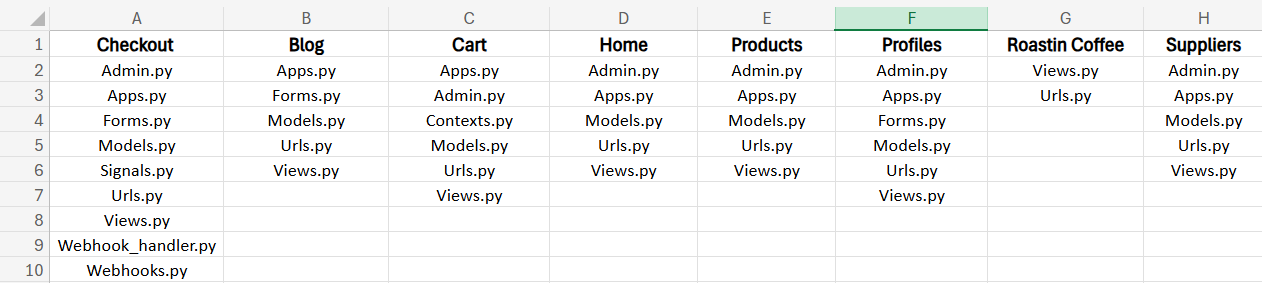
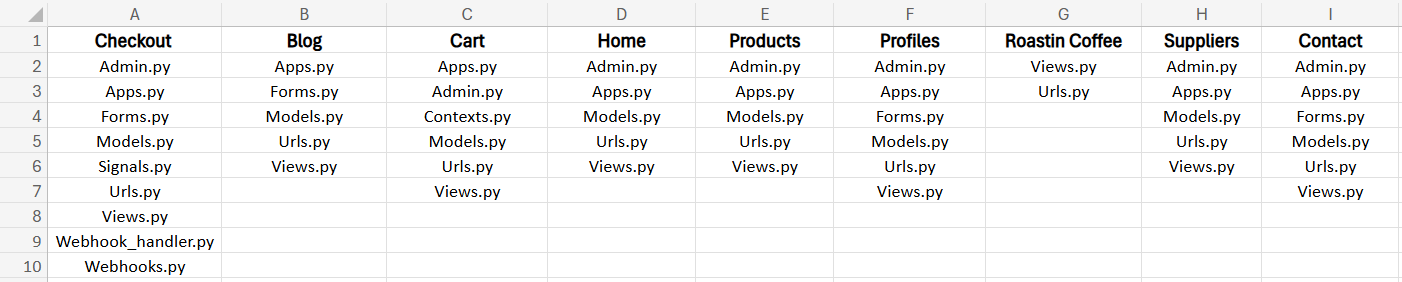
added contact form and mdoel info to readme

diff --git a/contact/templates/contact/contact.html b/contact/templates/contact/contact.html
@@ -5,7 +5,7 @@
 {% block content %}
 <div class="container">
     <form method="POST" enctype="multipart/form-data" class="p-2 form">
-        <h1 class="text-center">Contact</h1>
+        <h1 class="text-center">Contact Us</h1>
         {% csrf_token %}
         {{ form.media }} 
         {{ form|crispy }}

diff --git a/README.md b/README.md
@@ -34,6 +34,8 @@ Below is a set of wireframes designs to brainstorm ideas of what the website wou
 
 ![Suppliers](docs/images/wireframe_suppliers.png)
 
+![Contact Form](docs/images/Contact_form.PNG)
+
 ### User Stories
 
 As part of the Agile process I created user stories to aid with planning for the project. Although these were added to the project board in the final stages of the project, they were brainstormed before and during the project completion.
@@ -51,6 +53,7 @@ As part of the Agile process I created user stories to aid with planning for the
 * I can like/unlike blog posts.
 * I can comment and delete my own comments on blog posts.
 * I can view the supplliers and their websites.
+* I can contact the owner via a contact form in case I have a payment issue, account issue or other general queries.
 
 ### Admin
 
@@ -161,13 +164,24 @@ There are several database Models created for the site and the different apps wi
     default_postcode = models.CharField(max_length=20, null=True, blank=True)
     default_country = CountryField(blank_label='Country', null=True, blank=True)
 
-### Suppliers
+### Suppliers Model
 
 #### Suppliers
     supplier_name = models.CharField(max_length=100, null=False, blank=False)
     supplier_bio = models.TextField(null=False)
     supplier_image = models.ImageField(null=True, blank=True)
     supplier_website = models.TextField(null=False)
+
+### Contact Model
+
+#### Contact Models
+    name = models.CharField(max_length=100, null=False, blank=False)
+    email = models.EmailField(null=True, blank=True)
+    phone_number = models.CharField(max_length=80, null=True, blank=True)
+    query = models.CharField(
+        max_length=40, choices=CONTACT_CHOICE, default="GENERAL QUERY"
+    )
+    comments = models.CharField(max_length=2000, null=False, blank=False)
 
 ### Database relationships
 A relation database image was created using Db visulaizer    
@@ -181,8 +195,9 @@ The sites design takes a lot of styling from the Code Institute Boutique Ado fol
 ### Main page, header and footer
 
 The header includes the Roastin Coffee name, search bar, nav bar, login button from my account and a cart for how much the items accumulate to in the current cart.
+A contact form link was also added under on the My Account link.
 The main screen shows an image of a cup of coffee and beans and adds a nice background so it can give users a good idea of what the websites main business is.
-The footer includes contact details, a contact link so users can reach out to the owner, a link to view the business facebook page and a subscription linkso users can subscribe.
+The footer includes contact details, a contact link so users can reach out to the owner, a link to view the business facebook page and a newsletter subscription link so users can subscribe a newsletter.
 
 ![Main header](docs/images/main_header.PNG)
 
@@ -233,6 +248,12 @@ Users can sign out using the logout button from the my account logo.
 A message will appear once the user has signed out to show they have signed out successfully.
 
 ![Success message](docs/images/success_message.PNG)
+
+### Contact Form
+
+A contact form is available under the My Account link where users can contact the owner for any issues or general enquires they may have 
+
+![Contact Form](docs/images/Contact.PNG)
 
 ## Future Features
 
@@ -345,19 +366,6 @@ Some features I would like to implement in future releases are as follows.
 | Mandatory form details | All mandatory form details must be filled out or the user cannnot complete their order and a message will appear to tell the user this | Pass |
 | Incorrect card details | If incorrect card details are entered a message sayign you car number is invalid| Pass |
 | Check out more deals button | From the checkout success page when the check out more deals button is clicked it redirects the user to the products page | Pass |
-
-### Unresolved bugs
-
-Unfortunately I did not have time to resolev the below bugs I encountered. 
-
-* **Toast notification:**
-Unfortunately when a toast message appears the X button to close does not work
-
-* **Email notification:**
-Unfortunately the e-mail confirmation does not work. The page shows the email confirmation but this does not send to the mail
-
-* **Blog submit:**
-Unfortunately the blog submit button does not submit a blog. This was working previously but unfortunately I ran out of time to fix this.
 
 
 ## Validation testing
